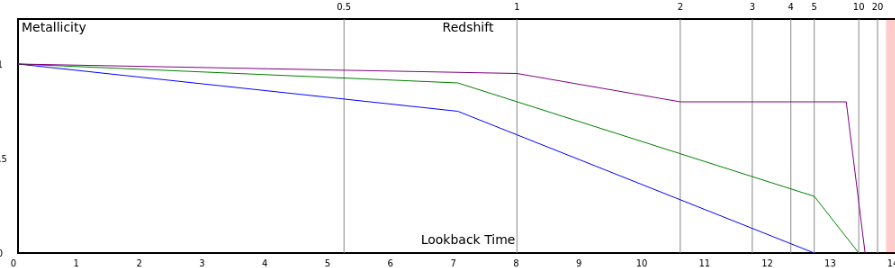
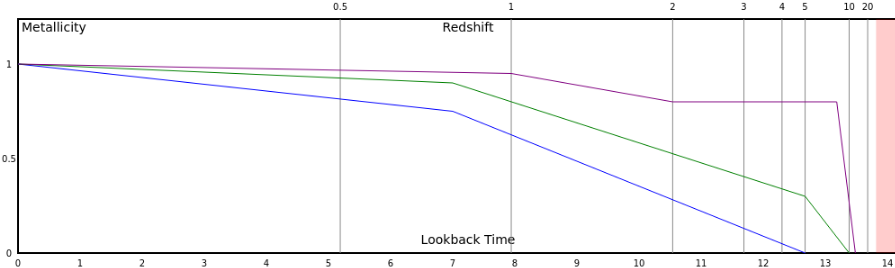
metallicity

diff --git a/other/metallicity.htm b/other/metallicity.htm
@@ -79,7 +79,7 @@
     var height = graph.height - offset
     var zoom = 1
     var zoomGY = height * 0.75
-    var zoomG = zoom * 6.98
+    var zoomG = zoom * 6.9
 
 
     var Omega_M = 0.3 
@@ -153,11 +153,11 @@
         ctxB.font = "10px sans-serif"
         ctxB.fillStyle = "black"
         for (dgi = 0; dgi <= 1.5; dgi+=0.5) {
-            ctxB.fillText(dgi, 0, -offset + graph.height - dgi * zoomGY + 4)    
+            ctxB.fillText(dgi, 10, -offset + graph.height - dgi * zoomGY + 4)    
         }
         
         for (dgi = 0; dgi <= 140; dgi+=10) {
-            ctxB.fillText(dgi/10, offset + dgi  * zoomG - 5, graph.height - 5)    
+            ctxB.fillText(dgi/10, offset + dgi  * zoomG, graph.height - 5)    
         }        
 
         ctxB.lineWidth = 1
